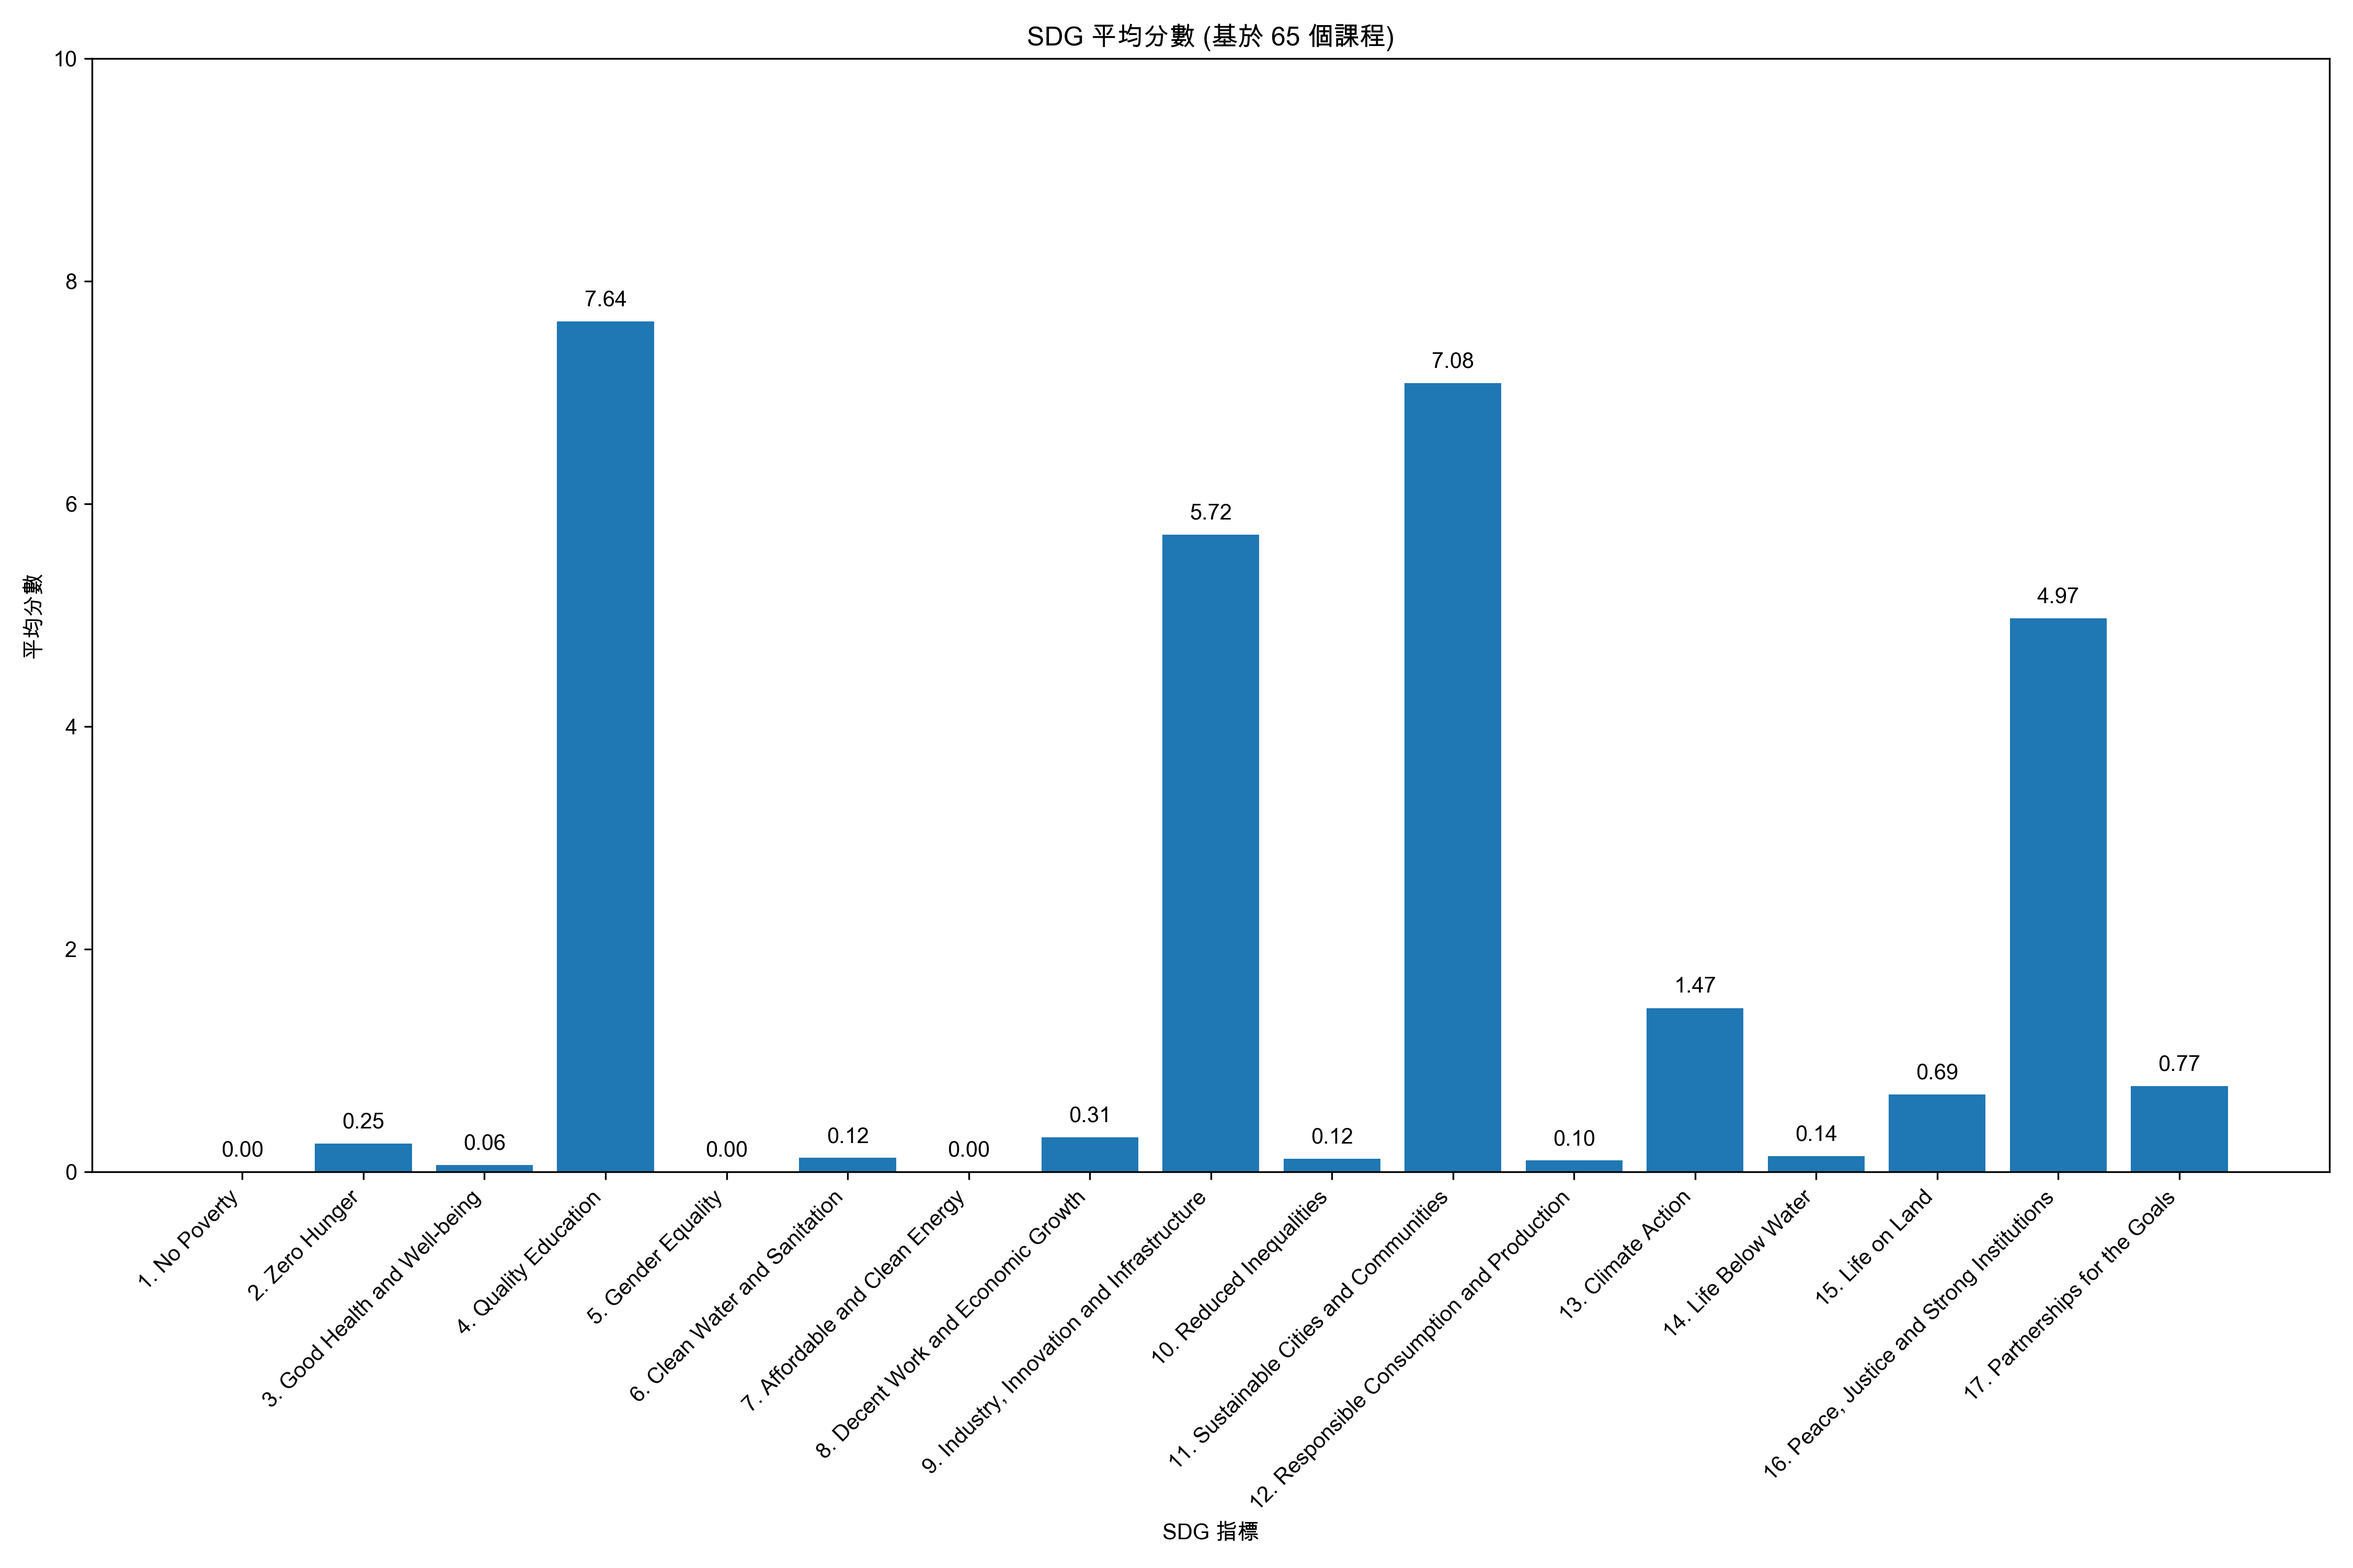
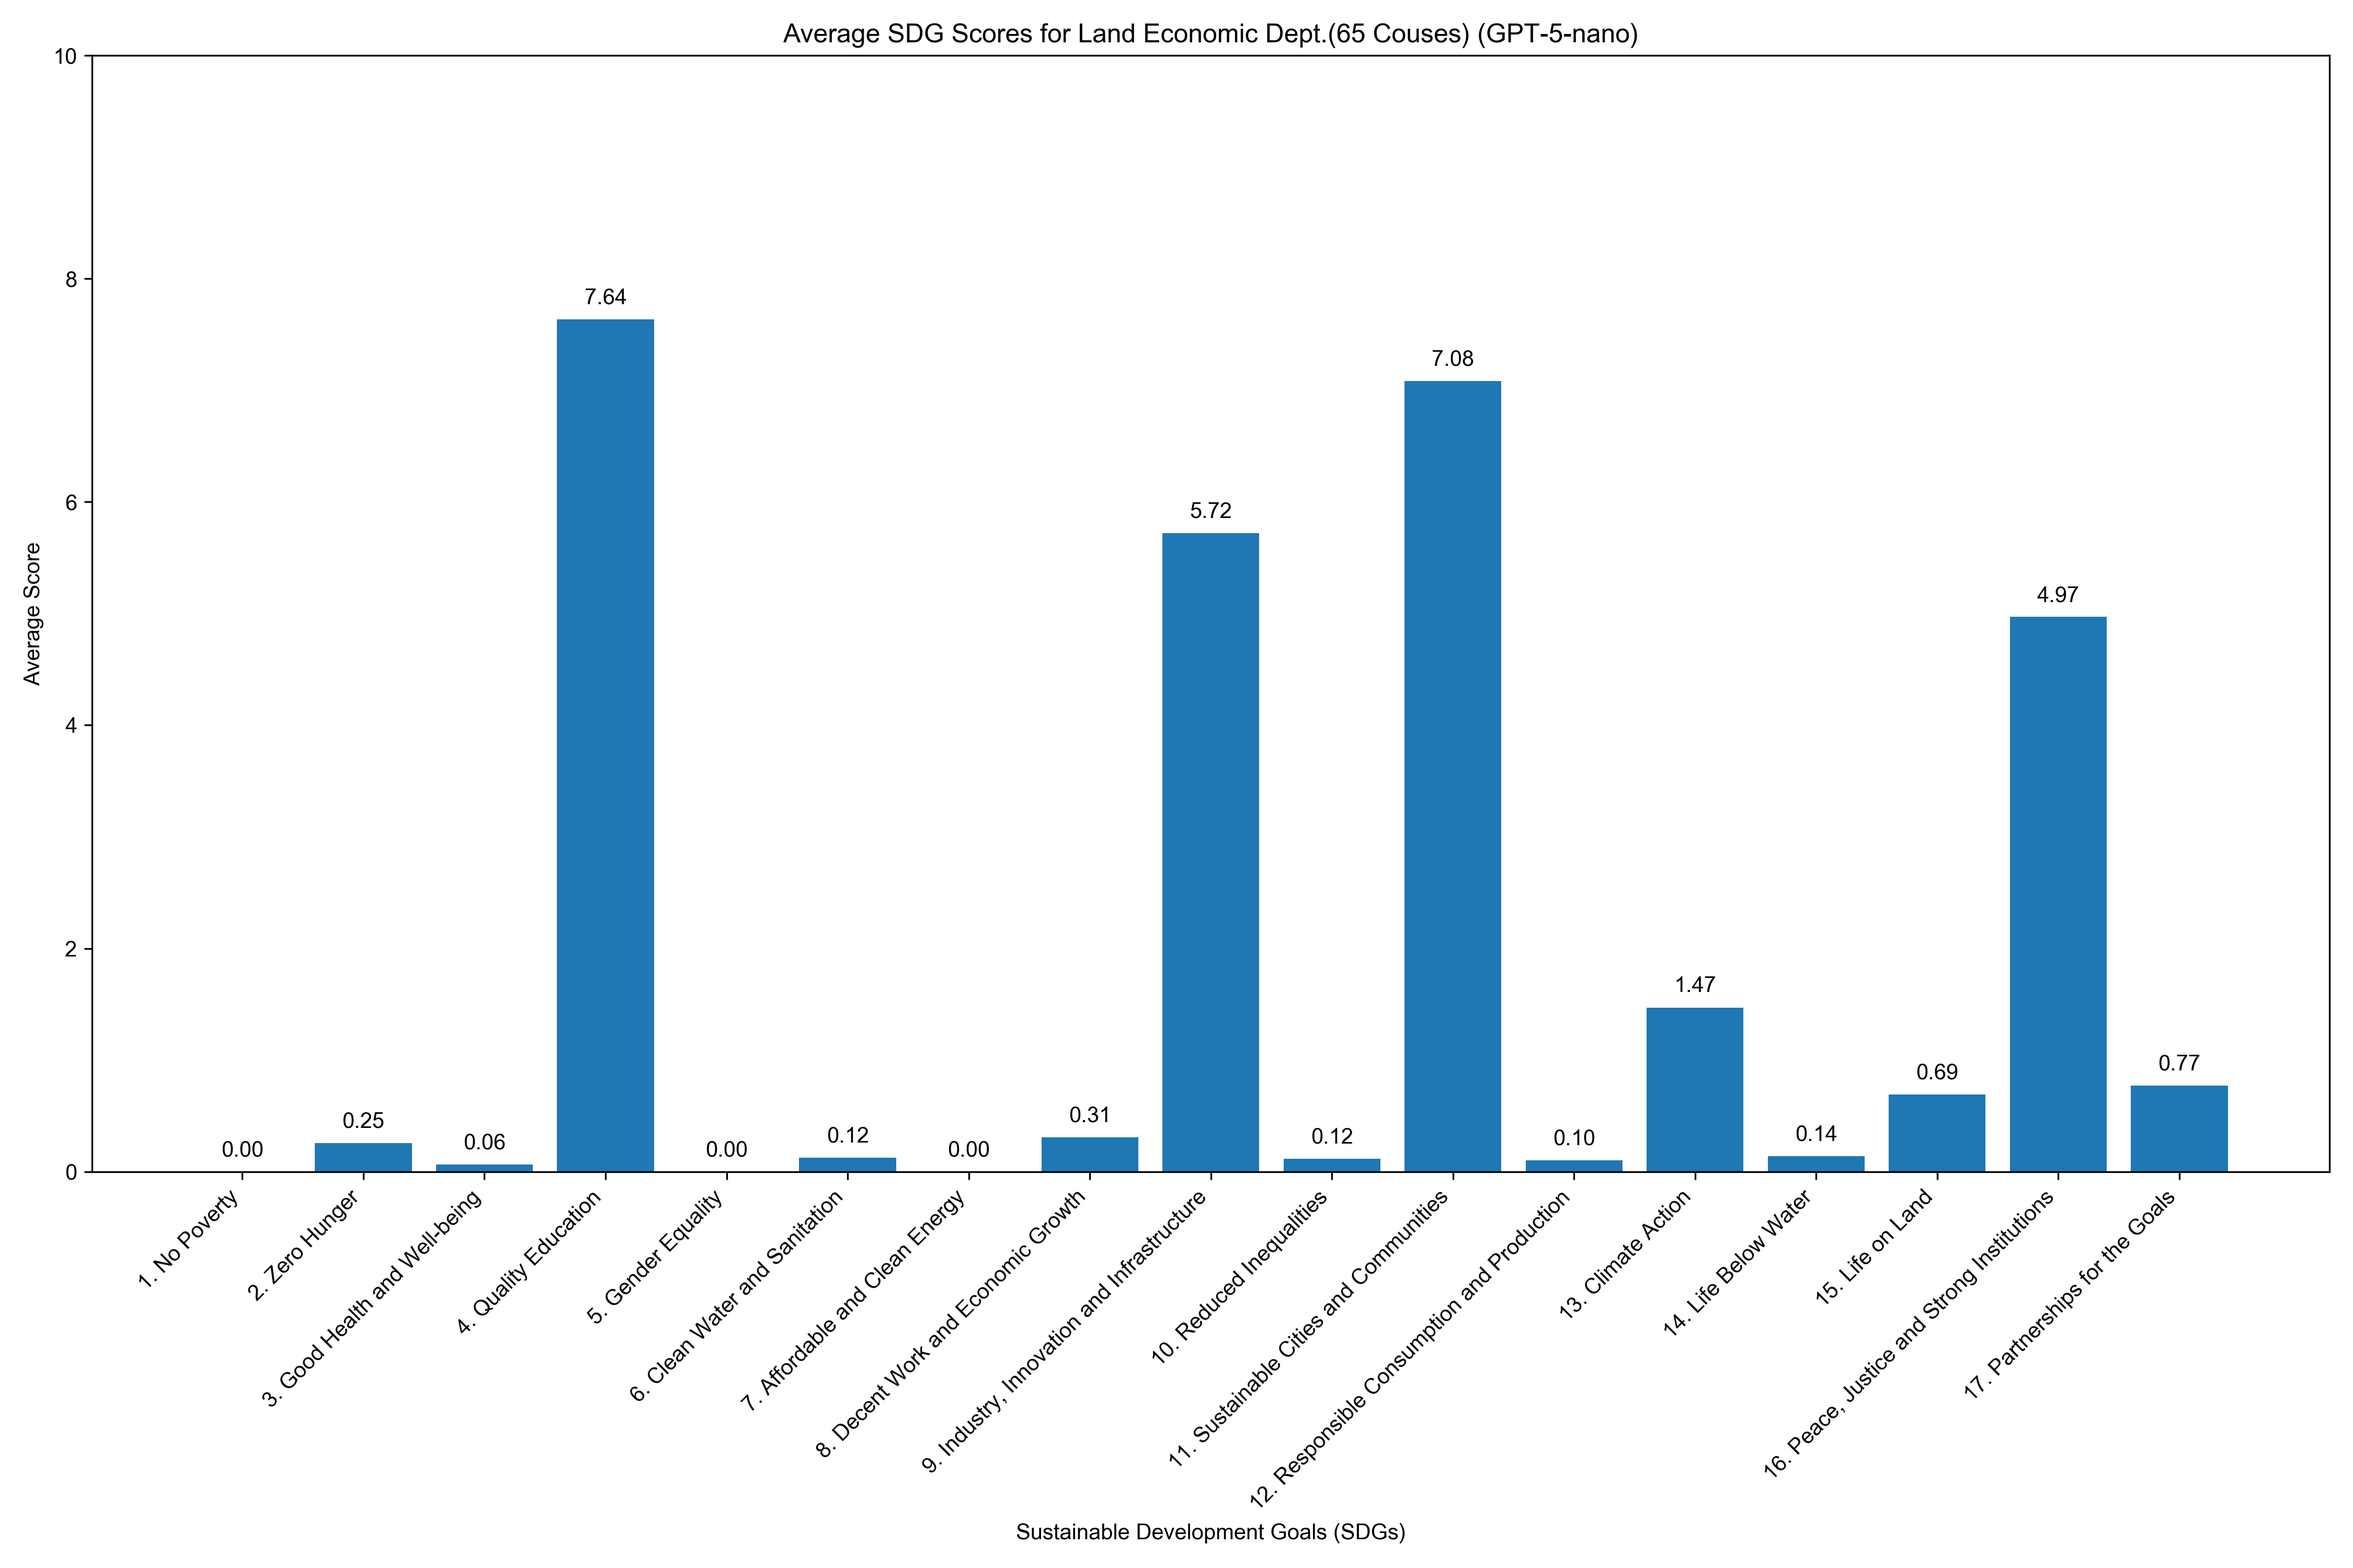
[feat] Update plot code and .pngs

diff --git a/src/courseCrawl/experiment/debate/sdg_average.py b/src/courseCrawl/experiment/debate/sdg_average.py
@@ -250,7 +250,7 @@ def calculate_statistics(all_scores):
     
     return statistics
 
-def plot_average_scores(statistics, output_path="average_sdg_scores_only1.png"):
+def plot_average_scores(statistics, output_path="average_sdg_scores.png"):
     course_num = statistics['gpt_original']['No Poverty']['count']
     
     """Create a bar chart showing average scores with error bars"""
@@ -266,33 +266,45 @@ def plot_average_scores(statistics, output_path="average_sdg_scores_only1.png"):
     # Set up the plot
     fig, ax = plt.subplots(figsize=(16, 10))
     
-    # Only showing gpt_judge_final results
-    score_type = "gpt_judge_final"
-    color = 'forestgreen'
-    label = 'GPT Judge Final'
+    # Define bar positions and width
+    bar_width = 0.2
+    index = np.arange(len(all_sdgs))
     
-    means = []
-    errors = []
+    # Define score types, colors and labels
+    score_types = [
+        ("gpt_original", "royalblue", "GPT Original"),
+        ("gemini_original", "coral", "Gemini Original"),
+        ("gpt_judge_final", "forestgreen", "GPT Judge Final"),
+        ("gemini_judge_final", "purple", "Gemini Judge Final")
+    ]
     
-    for sdg in all_sdgs:
-        if sdg in statistics[score_type]:
-            means.append(statistics[score_type][sdg]["mean"])
-            errors.append(statistics[score_type][sdg]["std"])
-        else:
-            means.append(0)
-            errors.append(0)
-    
-    # Plot bars for gpt_judge_final
-    ax.bar(range(len(all_sdgs)), means, width=0.6, label=label, color=color, alpha=0.8)
-    # Add error bars if needed
-    # ax.errorbar(range(len(all_sdgs)), means, yerr=errors, fmt='none', ecolor='black', capsize=3)
+    # Plot bars for each score type
+    for i, (score_type, color, label) in enumerate(score_types):
+        means = []
+        errors = []
+        
+        for sdg in all_sdgs:
+            if sdg in statistics[score_type]:
+                means.append(statistics[score_type][sdg]["mean"])
+                errors.append(statistics[score_type][sdg]["std"])
+            else:
+                means.append(0)
+                errors.append(0)
+        
+        # Position the bars side by side
+        position = index + (i - 1.5) * bar_width
+        
+        # Plot bars
+        ax.bar(position, means, width=bar_width, label=label, color=color, alpha=0.8)
+        # Add error bars if needed
+        # ax.errorbar(position, means, yerr=errors, fmt='none', ecolor='black', capsize=3)
     
     # Add labels and legend
-    ax.set_title(f'Average SDG Scores - GPT Judge Final ({course_num} courses)', fontsize=16)
-    ax.set_xlabel('SDGs', fontsize=14)
-    ax.set_ylabel('Score', fontsize=14)
-    ax.set_xticks(range(len(all_sdgs)))
-    ax.set_xticklabels([f"{sdg}\n({SDG_MAPPING.get(sdg, '')})" for sdg in all_sdgs], rotation=45, ha='right', fontsize=10)
+    ax.set_title(f'Average SDG Scores Comparison for Land Economic  ({course_num} courses)', fontsize=16)
+    ax.set_xlabel('Sustainable Development Goals (SDGs)')
+    ax.set_ylabel('Average Score')
+    ax.set_xticks(index)
+    ax.set_xticklabels([f"{int(SDG_MAPPING.get(sdg, '99').replace('SDG_', ''))}. {sdg}" for sdg in all_sdgs], rotation=45, ha='right', fontsize=10)
     ax.set_ylim(0, 10.5)
     ax.grid(True, axis='y', alpha=0.3)
     ax.legend(fontsize=12)

diff --git a/src/courseCrawl/results/compare_distribute.py b/src/courseCrawl/results/compare_distribute.py
@@ -60,13 +60,13 @@ def visualize_distributions():
     llm_name = ["GPT", "Gemini"]
     name = "avg_score.json"
     sdg_goals = [
-        "No Poverty", "Zero Hunger", "Good Health and Well-being", 
-        "Quality Education", "Gender Equality", "Clean Water and Sanitation",
-        "Affordable and Clean Energy", "Decent Work and Economic Growth", 
-        "Industry, Innovation and Infrastructure", "Reduced Inequalities",
-        "Sustainable Cities and Communities", "Responsible Consumption and Production",
-        "Climate Action", "Life Below Water", "Life on Land",
-        "Peace, Justice and Strong Institutions", "Partnerships for the Goals"
+        "1. No Poverty", "2. Zero Hunger", "3. Good Health and Well-being",
+        "4. Quality Education", "5. Gender Equality", "6. Clean Water and Sanitation",
+        "7. Affordable and Clean Energy", "8. Decent Work and Economic Growth",
+        "9. Industry, Innovation and Infrastructure", "10. Reduced Inequalities",
+        "11. Sustainable Cities and Communities", "12. Responsible Consumption and Production",
+        "13. Climate Action", "14. Life Below Water", "15. Life on Land",
+        "16. Peace, Justice and Strong Institutions", "17. Partnerships for the Goals"
     ]
     
     # Generate separate plots for each department
@@ -92,12 +92,21 @@ def visualize_distributions():
         x = np.arange(len(sdg_goals))
         width = 0.35
         
-        plt.bar(x - width/2, gpt_scores, width, label='GPT')
-        plt.bar(x + width/2, gemini_scores, width, label='Gemini')
+        plt.bar(x - width/2, gpt_scores, width, label='GPT-5-nano')
+        plt.bar(x + width/2, gemini_scores, width, label='Gemini-2.5-flash')
         
-        plt.title(f'{dept} SDG Distribution Comparison\nKL={kl:.4f}', fontsize=15)
+        def dept_to_english(s):
+            if s == "地政":
+                return "Land Economics"
+            if s == "社會":
+                return "Sociology"
+            if s == "資訊":
+                return "Computer Science"
+
+        plt.title(f'{dept_to_english(dept)} SDG Distribution Comparison (GPT-5-nano vs Gemini-2.5-flash ) \nKL={kl:.4f}', fontsize=15)
         plt.xticks(x, sdg_goals, rotation=45, ha='right', fontsize=9)
-        plt.ylabel('Score', fontsize=12)
+        plt.xlabel('Sustainable Development Goals (SDGs)')
+        plt.ylabel('Average Score')
         plt.ylim(0, 10)  # Set y-axis limit from 0 to 10
         plt.legend(fontsize=12)
         plt.grid(axis='y', linestyle='--', alpha=0.7)

diff --git a/src/courseCrawl/results/資訊_GPT/analyzeResult.py b/src/courseCrawl/results/資訊_GPT/analyzeResult.py
@@ -130,9 +130,9 @@ def analyze_json_results(results_dir="./results"):
     # 繪製長條圖
     bars = plt.bar(numbered_labels, ordered_scores)
     plt.xticks(rotation=45, ha='right')
-    plt.title(f'SDG 平均分數 (基於 {file_count} 個課程)')
-    plt.xlabel('SDG 指標')
-    plt.ylabel('平均分數')
+    plt.title(f'Average SDG Scores for Computer Science Dept.({file_count} Couses) (GPT-5-nano)')
+    plt.xlabel('Sustainable Development Goals (SDGs)')
+    plt.ylabel('Average Score')
     plt.ylim(0, 10)  # 固定 y 軸最大值為 10
     plt.tight_layout()
     

diff --git a/src/courseCrawl/results/地政_GPT/analyzeResult.py b/src/courseCrawl/results/地政_GPT/analyzeResult.py
@@ -130,9 +130,9 @@ def analyze_json_results(results_dir="./results"):
     # 繪製長條圖
     bars = plt.bar(numbered_labels, ordered_scores)
     plt.xticks(rotation=45, ha='right')
-    plt.title(f'SDG 平均分數 (基於 {file_count} 個課程)')
-    plt.xlabel('SDG 指標')
-    plt.ylabel('平均分數')
+    plt.title(f'Average SDG Scores for Land Economic Dept.({file_count} Couses) (GPT-5-nano)')
+    plt.xlabel('Sustainable Development Goals (SDGs)')
+    plt.ylabel('Average Score')
     plt.ylim(0, 10)  # 固定 y 軸最大值為 10
     plt.tight_layout()
     

diff --git a/src/courseCrawl/results/社會_GPT/analyzeResult.py b/src/courseCrawl/results/社會_GPT/analyzeResult.py
@@ -130,9 +130,9 @@ def analyze_json_results(results_dir="./results"):
     # 繪製長條圖
     bars = plt.bar(numbered_labels, ordered_scores)
     plt.xticks(rotation=45, ha='right')
-    plt.title(f'SDG 平均分數 (基於 {file_count} 個課程)')
-    plt.xlabel('SDG 指標')
-    plt.ylabel('平均分數')
+    plt.title(f'Average SDG Scores for Sociology Dept.({file_count} Couses) (GPT-5-nano)')
+    plt.xlabel('Sustainable Development Goals (SDGs)')
+    plt.ylabel('Average Score')
     plt.ylim(0, 10)  # 固定 y 軸最大值為 10
     plt.tight_layout()
     
